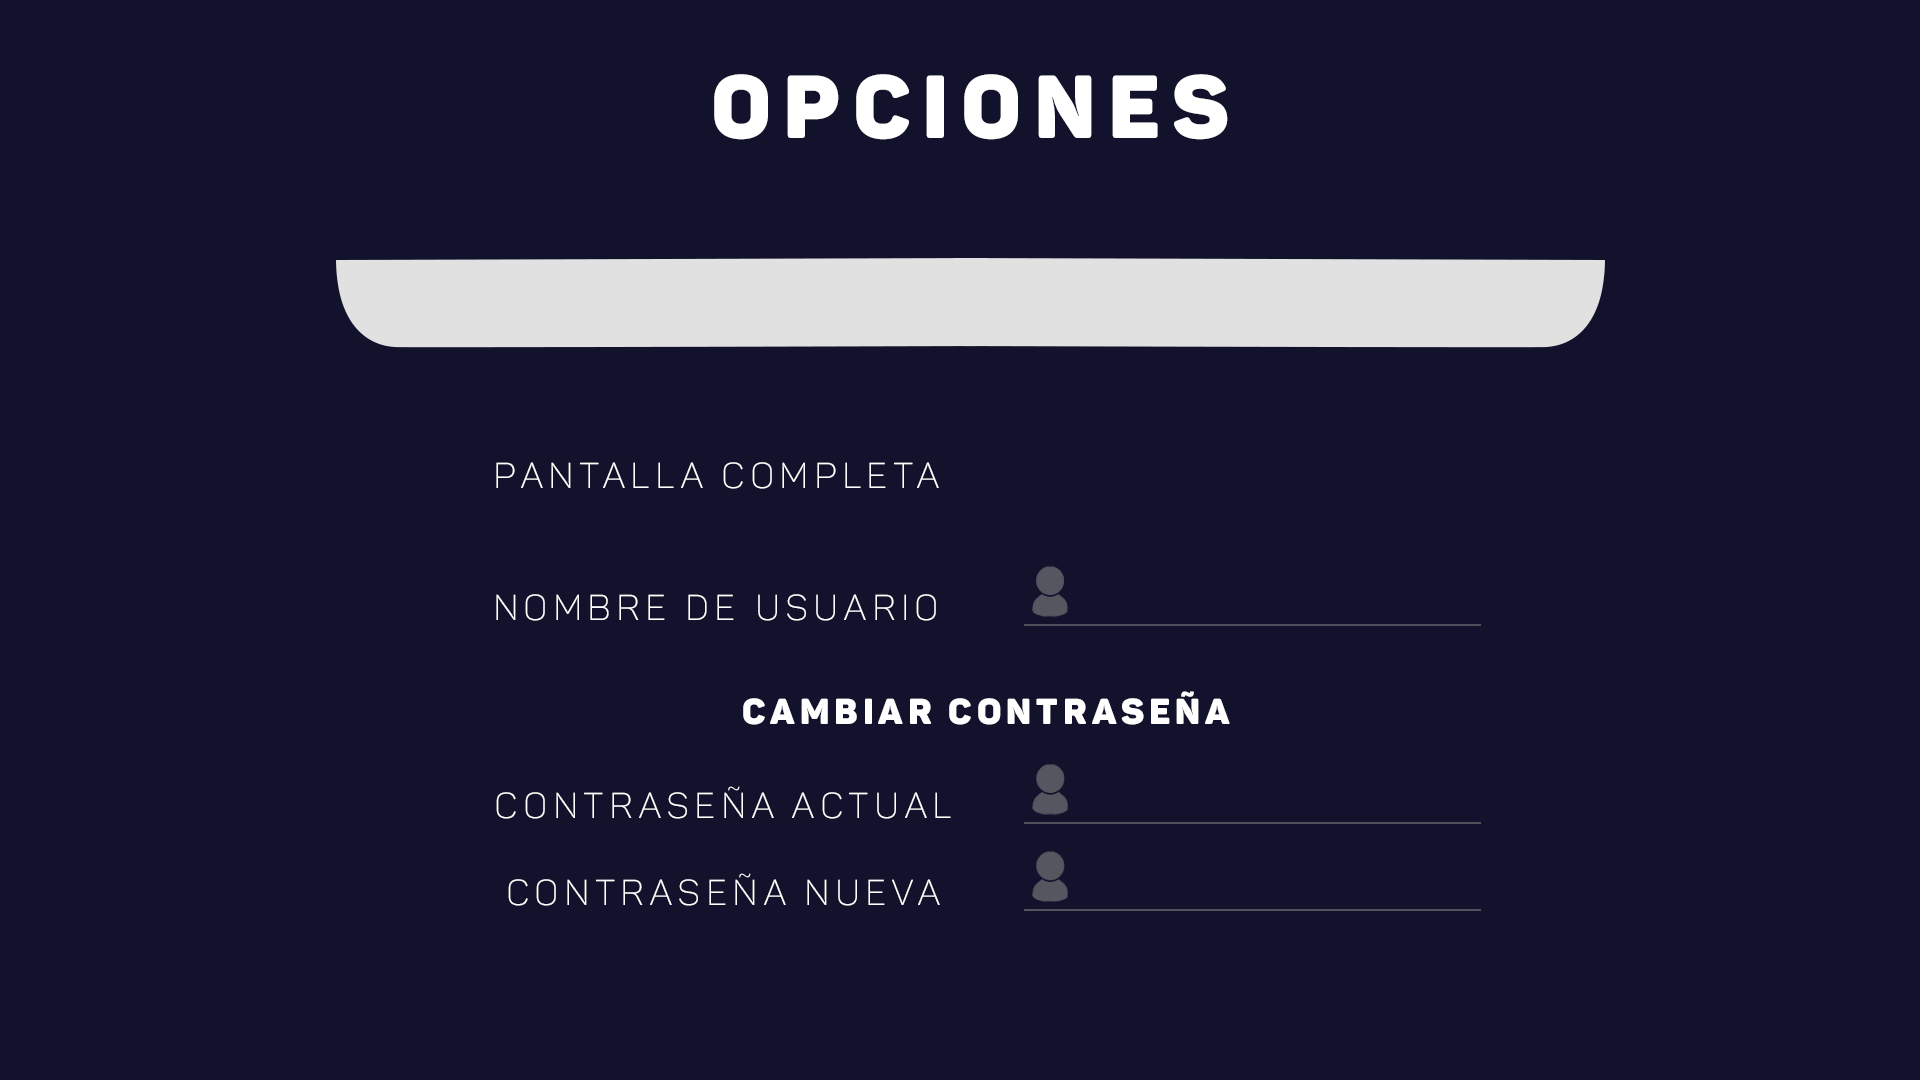
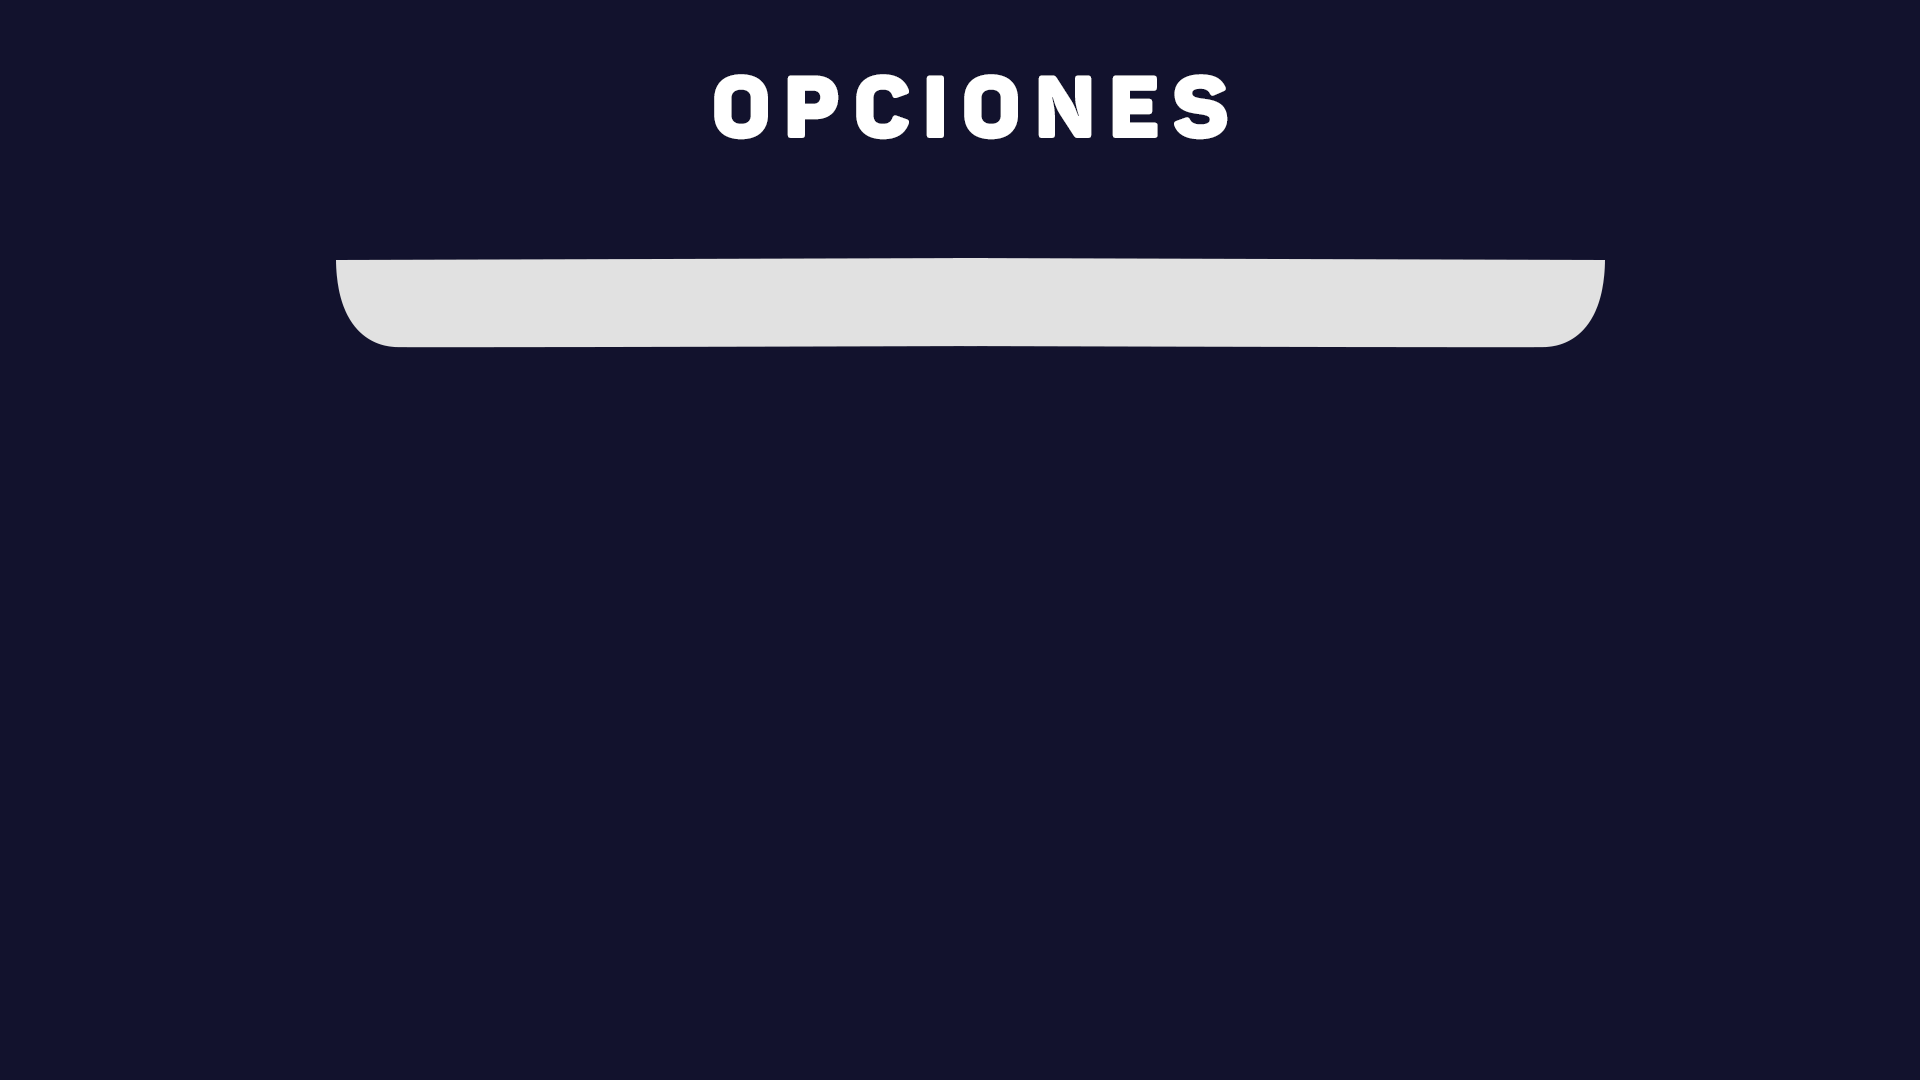
Avance Opciones

diff --git a/ZeroGravity/src/main/resources/static/src/scenes/options.js b/ZeroGravity/src/main/resources/static/src/scenes/options.js
@@ -21,14 +21,55 @@ class OptionsScene extends Phaser.Scene {
     	var background = this.add.image(960, 540, 'backgroundOptionsAccount');
     	
     	var button = this.add.image(150, 100, 'back').setInteractive();
+    	var btnIdioma = this.add.image(1400, 250, 'btnIdioma').setInteractive();
+    	var btnSonido = this.add.image(960, 250, 'btnSonido').setInteractive();
+    	var btnCuenta = this.add.image(550, 250, 'btnCuenta').setInteractive();
     	
-
+    	var txtCuenta = this.add.image(950, 650, 'txtCuenta');
+    	var txtSonido = this.add.image(650, 650, 'txtSonido');
+    	var txtIdioma = this.add.image(650, 650, 'txtIdioma');
+    	
+    	txtCuenta.setVisible(true);
+		txtSonido.setVisible(false);
+		txtIdioma.setVisible(false);
+    	
+    	//Default cuenta
+    	btnCuenta.setFrame(1);
+    	
     	button.on('pointerover',function(pointer){
     	    button.setFrame(1);
     	})
 
     	button.on('pointerout',function(pointer){
     	    button.setFrame(0);
+    	})
+    	
+    	btnCuenta.on('pointerdown',function(pointer){
+    		btnCuenta.setFrame(1);
+    		btnSonido.setFrame(0);
+    		btnIdioma.setFrame(0);
+    		txtCuenta.setVisible(true);
+    		txtSonido.setVisible(false);
+    		txtIdioma.setVisible(false);
+    		
+    	})
+    	
+    	btnSonido.on('pointerdown',function(pointer){
+    		btnCuenta.setFrame(0);
+    		btnSonido.setFrame(1);
+    		btnIdioma.setFrame(0);
+    		txtCuenta.setVisible(false);
+    		txtSonido.setVisible(true);
+    		txtIdioma.setVisible(false);
+    	})
+    	
+    	btnIdioma.on('pointerdown',function(pointer){
+    		btnCuenta.setFrame(0);
+    		btnSonido.setFrame(0);
+    		btnIdioma.setFrame(1);
+    		txtCuenta.setVisible(false);
+    		txtSonido.setVisible(false);
+    		txtIdioma.setVisible(true);
     	})
     	
     	button.setInteractive().on('pointerdown', function(pointer, localX, localY, event){

diff --git a/ZeroGravity/target/classes/static/src/scenes/options.js b/ZeroGravity/target/classes/static/src/scenes/options.js
@@ -21,14 +21,55 @@ class OptionsScene extends Phaser.Scene {
     	var background = this.add.image(960, 540, 'backgroundOptionsAccount');
     	
     	var button = this.add.image(150, 100, 'back').setInteractive();
+    	var btnIdioma = this.add.image(1400, 250, 'btnIdioma').setInteractive();
+    	var btnSonido = this.add.image(960, 250, 'btnSonido').setInteractive();
+    	var btnCuenta = this.add.image(550, 250, 'btnCuenta').setInteractive();
     	
-
+    	var txtCuenta = this.add.image(950, 650, 'txtCuenta');
+    	var txtSonido = this.add.image(650, 650, 'txtSonido');
+    	var txtIdioma = this.add.image(650, 650, 'txtIdioma');
+    	
+    	txtCuenta.setVisible(true);
+		txtSonido.setVisible(false);
+		txtIdioma.setVisible(false);
+    	
+    	//Default cuenta
+    	btnCuenta.setFrame(1);
+    	
     	button.on('pointerover',function(pointer){
     	    button.setFrame(1);
     	})
 
     	button.on('pointerout',function(pointer){
     	    button.setFrame(0);
+    	})
+    	
+    	btnCuenta.on('pointerdown',function(pointer){
+    		btnCuenta.setFrame(1);
+    		btnSonido.setFrame(0);
+    		btnIdioma.setFrame(0);
+    		txtCuenta.setVisible(true);
+    		txtSonido.setVisible(false);
+    		txtIdioma.setVisible(false);
+    		
+    	})
+    	
+    	btnSonido.on('pointerdown',function(pointer){
+    		btnCuenta.setFrame(0);
+    		btnSonido.setFrame(1);
+    		btnIdioma.setFrame(0);
+    		txtCuenta.setVisible(false);
+    		txtSonido.setVisible(true);
+    		txtIdioma.setVisible(false);
+    	})
+    	
+    	btnIdioma.on('pointerdown',function(pointer){
+    		btnCuenta.setFrame(0);
+    		btnSonido.setFrame(0);
+    		btnIdioma.setFrame(1);
+    		txtCuenta.setVisible(false);
+    		txtSonido.setVisible(false);
+    		txtIdioma.setVisible(true);
     	})
     	
     	button.setInteractive().on('pointerdown', function(pointer, localX, localY, event){

diff --git a/ZeroGravity/src/main/resources/static/src/scenes/preload.js b/ZeroGravity/src/main/resources/static/src/scenes/preload.js
@@ -26,11 +26,17 @@ class PreloadScene extends Phaser.Scene {
 		
 		//Elements
 		this.load.image('team', 'assets/interface/team.png');
-		
+		this.load.image('txtCuenta', 'assets/interface/Opciones/cuentaTextos.png');
+		this.load.image('txtSonido', 'assets/interface/Opciones/sonidoTextos.png');
+		this.load.image('txtIdioma', 'assets/interface/Opciones/idiomaTextos.png');
 		
 		//Buttons
     	this.load.image('session', 'assets/background/btnInicioSesion.png');
     	this.load.spritesheet( 'btn' , 'assets/background/btnInicioSesionSprite.png' ,{frameWidth:596,frameHeight:142});
+    	this.load.spritesheet( 'btnCuenta' , 'assets/interface/Opciones/CuentaSprite.png' ,{frameWidth:131,frameHeight:131});
+    	this.load.spritesheet( 'btnSonido' , 'assets/interface/Opciones/EqualizerSprite.png' ,{frameWidth:131,frameHeight:131});
+    	this.load.spritesheet( 'btnIdioma' , 'assets/interface/Opciones/IdiomaSprite.png' ,{frameWidth:131,frameHeight:131});
+    	
     	this.load.spritesheet( 'btnRegister' , 'assets/interface/btnRegistrar.png' ,{frameWidth:596,frameHeight:142});
     	this.load.image('btnAmigos', 'assets/background/btnMenuAmigos.png');
 		this.load.image('link', 'assets/interface/link.png');

diff --git a/ZeroGravity/target/classes/static/src/scenes/preload.js b/ZeroGravity/target/classes/static/src/scenes/preload.js
@@ -26,11 +26,17 @@ class PreloadScene extends Phaser.Scene {
 		
 		//Elements
 		this.load.image('team', 'assets/interface/team.png');
-		
+		this.load.image('txtCuenta', 'assets/interface/Opciones/cuentaTextos.png');
+		this.load.image('txtSonido', 'assets/interface/Opciones/sonidoTextos.png');
+		this.load.image('txtIdioma', 'assets/interface/Opciones/idiomaTextos.png');
 		
 		//Buttons
     	this.load.image('session', 'assets/background/btnInicioSesion.png');
     	this.load.spritesheet( 'btn' , 'assets/background/btnInicioSesionSprite.png' ,{frameWidth:596,frameHeight:142});
+    	this.load.spritesheet( 'btnCuenta' , 'assets/interface/Opciones/CuentaSprite.png' ,{frameWidth:131,frameHeight:131});
+    	this.load.spritesheet( 'btnSonido' , 'assets/interface/Opciones/EqualizerSprite.png' ,{frameWidth:131,frameHeight:131});
+    	this.load.spritesheet( 'btnIdioma' , 'assets/interface/Opciones/IdiomaSprite.png' ,{frameWidth:131,frameHeight:131});
+    	
     	this.load.spritesheet( 'btnRegister' , 'assets/interface/btnRegistrar.png' ,{frameWidth:596,frameHeight:142});
     	this.load.image('btnAmigos', 'assets/background/btnMenuAmigos.png');
 		this.load.image('link', 'assets/interface/link.png');

diff --git a/ZeroGravity/src/main/resources/static/src/scenes/credits.js b/ZeroGravity/src/main/resources/static/src/scenes/credits.js
@@ -28,8 +28,10 @@ class CreditsScene extends Phaser.Scene {
     	
     	var creditosHover = this.add.image(960, 160, 'creditosHover');
 
-        //link.on('pointerup', openExternalLink, this);
-        
+        link.on('pointerdown', openExternalLink, this);
+        link.on('pointerover',function(pointer){
+    	    
+    	})
 
     	button.on('pointerover',function(pointer){
     	    button.setFrame(1);
@@ -45,6 +47,10 @@ class CreditsScene extends Phaser.Scene {
     		game.scene.run('MenuScene');
     		game.scene.stop('CreditsScene');
     	});
+    	
+    	function openExternalLink(){
+    		window.open("https://marferfer.github.io/WebSitePortfolio/", "_blank"); 
+    	}
     }
     update(time, delta) {
     	game.global.team.y -= 1;

diff --git a/ZeroGravity/target/classes/static/src/scenes/credits.js b/ZeroGravity/target/classes/static/src/scenes/credits.js
@@ -28,8 +28,10 @@ class CreditsScene extends Phaser.Scene {
     	
     	var creditosHover = this.add.image(960, 160, 'creditosHover');
 
-        //link.on('pointerup', openExternalLink, this);
-        
+        link.on('pointerdown', openExternalLink, this);
+        link.on('pointerover',function(pointer){
+    	    
+    	})
 
     	button.on('pointerover',function(pointer){
     	    button.setFrame(1);
@@ -45,6 +47,10 @@ class CreditsScene extends Phaser.Scene {
     		game.scene.run('MenuScene');
     		game.scene.stop('CreditsScene');
     	});
+    	
+    	function openExternalLink(){
+    		window.open("https://marferfer.github.io/WebSitePortfolio/", "_blank"); 
+    	}
     }
     update(time, delta) {
     	game.global.team.y -= 1;
